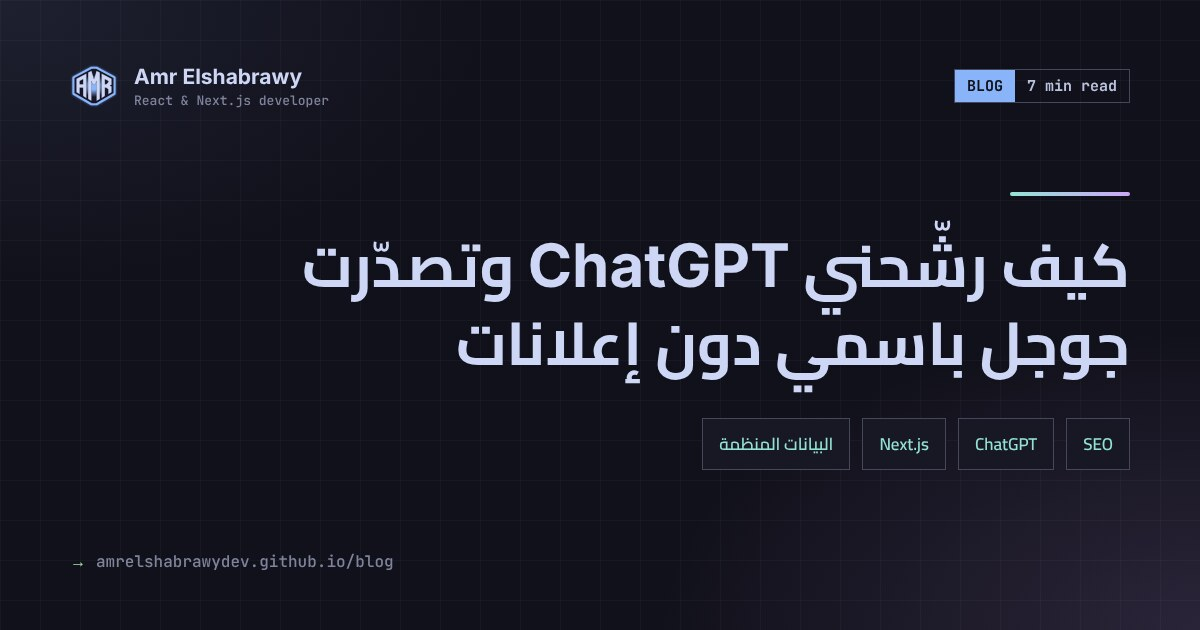
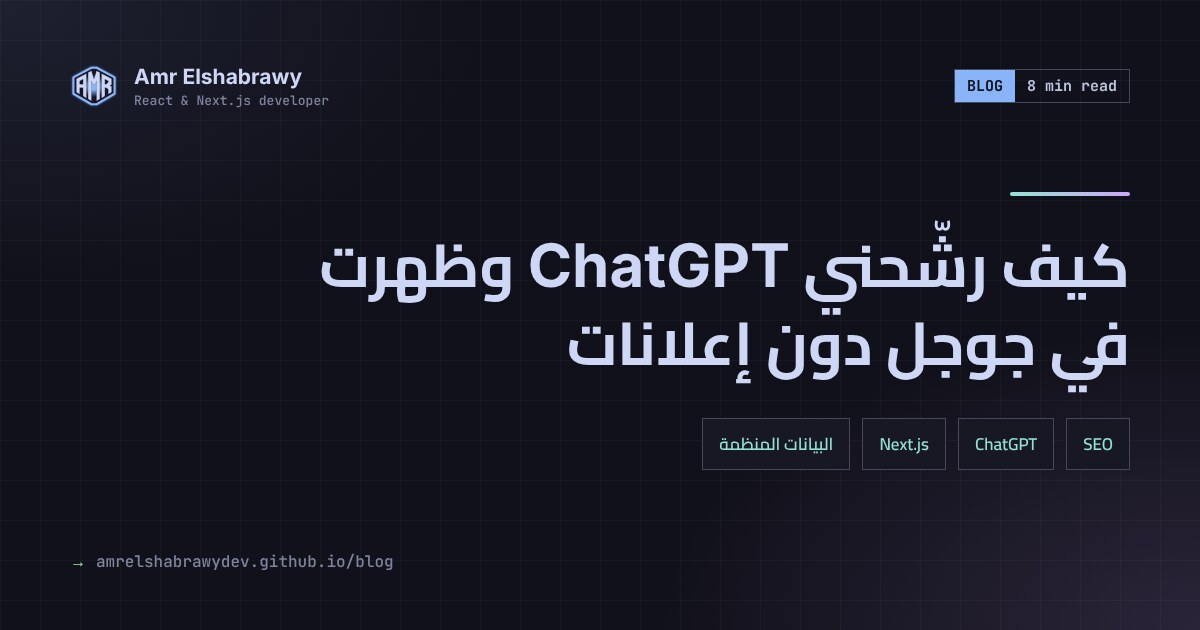
Correct the ChatGPT and Google post to match current search results
Searching my name alone on Google now shows a well-known namesake first, so
the post no longer claims a first-place result for it. It now says what the
results show: my site ranks first for "Amr Elshabrawy dev", Google's AI
Overview describes my work accurately, and ChatGPT ranked me first for two
different phrasings of the question.

Add a section on owning a distinctive name (name plus field) when your name
is common, note that ChatGPT still shows the wrong photo, and add a lesson
that AI summaries repeat what your site says about you almost word for word.
Update the title and share image to match.

Changed region(s): [[0.37, 0.5127, 0.9558, 0.6333], [0.2467, 0.3619, 0.4008, 0.4825]]

diff --git a/content/blog/chatgpt-google-recommend-developer-without-ads.md b/content/blog/chatgpt-google-recommend-developer-without-ads.md
@@ -1,6 +1,6 @@
 ---
-title: "كيف رشّحني ChatGPT وتصدّرت جوجل باسمي دون إعلانات"
-description: "تجربة حقيقية: عملاء وصلوا لي عبر ترشيح ChatGPT، وموقعي أول نتيجة في جوجل باسمي، دون دفع أي إعلانات. الخطوات العملية مع الكود من موقع Next.js الخاص بي."
+title: "كيف رشّحني ChatGPT وظهرت في جوجل دون إعلانات"
+description: "تجربة حقيقية: ChatGPT يرشّحني كأول مطور Next.js عربي، وجوجل يلخّص عملي بدقة، دون أي إعلانات. الخطوات العملية والأخطاء، مع الكود من موقعي."
 date: "2026-11-20"
 lang: "ar"
 tags: ["SEO", "ChatGPT", "Next.js", "البيانات المنظمة"]
@@ -8,7 +8,9 @@ tags: ["SEO", "ChatGPT", "Next.js", "البيانات المنظمة"]
 
 هذا الشهر وصلتني رسالة على واتساب من صاحب مشروع يريد بناء منصة تعليمية. في آخر المحادثة سألته كيف وصل لي، فكان رده كلمتين: **«recommendation from ChatGPT»**. بعدها بأيام راسلني مبرمج مبتدئ يسأل عن بداية طريقه، وحين سألته نفس السؤال، كان الجواب نفسه: **ChatGPT**.
 
-جربت بنفسي، وسألت ChatGPT: «أريد مطور مواقع Next.js عربي لمشروعي، من ترشح؟»، فظهر اسمي **كأول ترشيح**. وحين أبحث في جوجل باسمي «Amr Elshabrawy»، يظهر موقعي في أول النتائج.
+جربت بنفسي، وسألت ChatGPT: «أريد مطور مواقع Next.js عربي لمشروعي، من ترشح؟»، فظهر اسمي **كأول ترشيح**. ثم غيّرت الصياغة إلى «ابحث عن مطور Next.js عربي»، فظهرت أولًا مرة ثانية.
+
+وفي جوجل، حين أبحث عن «Amr Elshabrawy dev»، يظهر موقعي **أول نتيجة** ومعه روابط فرعية لصفحاتي، ويكتب ملخص الذكاء الاصطناعي في جوجل (AI Overview) وصفًا دقيقًا لعملي. أما البحث باسمي وحده، فقصته مختلفة، وسأحكيها بصراحة في الخطوة 3.
 
 كل هذا **دون أن أدفع جنيهًا واحدًا في إعلانات**.
 
@@ -111,6 +113,14 @@ contactPoint: {
 4. **ربطت حساباتي بالموقع عبر `sameAs`:** GitHub وLinkedIn ومستقل وX. هذا يخبر المحركات أن هذه الحسابات كلها لنفس الشخص.
 5. **نفس الصورة على كل المنصات**، حتى تتعلم محركات البحث أن هذا الوجه مرتبط بهذا الاسم.
 
+وحتى لحظة كتابة هذا المقال، **ما زال ChatGPT يعرض الصورة الخاطئة**. ربط صورة باسم يحتاج أن تعيد محركات البحث زيارة الصفحات وفهرسة الصور من جديد، وهذا يأخذ أسابيع لا أيامًا.
+
+### اسمك وحده لا يكفي إذا كان شائعًا
+
+قبل أقل من شهر، كان موقعي أول نتيجة في جوجل حتى عند البحث باسمي وحده «Amr Elshabrawy». اليوم تسبقه نتائج «د. عمرو الشبراوي»، مدرس معروف يحمل نفس الاسم، وله منصة تعليمية وصفحة كبيرة على فيسبوك. ترتيب جوجل يتغير باستمرار، و**لا يمكنك أن تملك اسمًا يشاركك فيه آخرون**.
+
+الذي يمكنك أن تملكه هو **اسم مميز ثابت**: اسمك ومعه مجالك. أنا أستخدم `amrelshabrawydev` في كل مكان تقريبًا: رابط موقعي، وGitHub، وLinkedIn، وCodePen، وUiverse. والنتيجة أن البحث عن «Amr Elshabrawy dev» يعرض موقعي أولًا، ثم حسابي على GitHub ومشاريعي، ثم باقي حساباتي. والعميل الذي يسمع عنك سيبحث غالبًا باسمك ومجالك معًا، لا باسمك وحده.
+
 **ملاحظة تقنية مفيدة:** صورتي الأصلية كانت مقصوصة بخلفية شفافة. حين حولتها مباشرة إلى JPG، ظهرت بقع غريبة حول الحواف، لأن صيغة JPG لا تدعم الشفافية، فتظهر الألوان المخفية في البكسلات الشفافة. الحل أن تدمج الصورة على خلفية قبل الحفظ:
 
 ```bash
@@ -203,6 +213,10 @@ await fetch("https://api.indexnow.org/indexnow", {
 - **اسأل كل عميل:** «كيف وصلت لي؟». سؤال بسيط، وهو الطريقة الوحيدة التي عرفت بها أن ChatGPT هو المصدر.
 - **Bing Webmaster Tools** فيه الآن تقرير **AI Performance**، يعرض كم مرة استُشهد بموقعك في إجابات Copilot.
 
+### الذكاء الاصطناعي يكرر ما تكتبه عن نفسك
+
+لاحظت شيئًا مهمًا في ملخص ChatGPT وملخص جوجل معًا: كلاهما نقل عبارات من موقعي **حرفيًا تقريبًا**، مثل وصفي لنفسي ومجالات عملي وعدد سنوات خبرتي. هذا يعني أن **كل جملة وكل رقم في موقعك قد يصل للعميل عبر الذكاء الاصطناعي** دون أن يزور موقعك أصلًا. فاكتب عن نفسك فقط ما تستطيع إثباته.
+
 ## ما الذي لم أفعله
 
 حتى تكون الصورة كاملة: **لم أدفع لإعلانات، ولم أشترِ روابط خلفية (Backlinks)، ولم أستخدم أي حيل.** كل ما سبق هو أن يكون موقعي واضحًا، وصحيحًا تقنيًا، ومتسقًا مع حساباتي في كل مكان.
@@ -213,6 +227,7 @@ await fetch("https://api.indexnow.org/indexnow", {
 - [ ] بيانات منظمة `Person` فيها صورتك و`sameAs` لكل حساباتك.
 - [ ] اختبار البيانات في Schema Markup Validator بلا أخطاء ولا تحذيرات.
 - [ ] صورتك باسم ملف يحمل اسمك، ونص بديل واضح، ونفس الصورة على كل المنصات.
+- [ ] اسم مميز ثابت (اسمك ومجالك) في روابط موقعك وكل حساباتك.
 - [ ] دراسات حالة حقيقية: المشكلة، ثم الحل، ثم النتيجة.
 - [ ] `robots.txt` لا يحظر روبوتات البحث، ومنها `OAI-SearchBot`.
 - [ ] الموقع مسجل في Google Search Console **وBing Webmaster Tools**.
